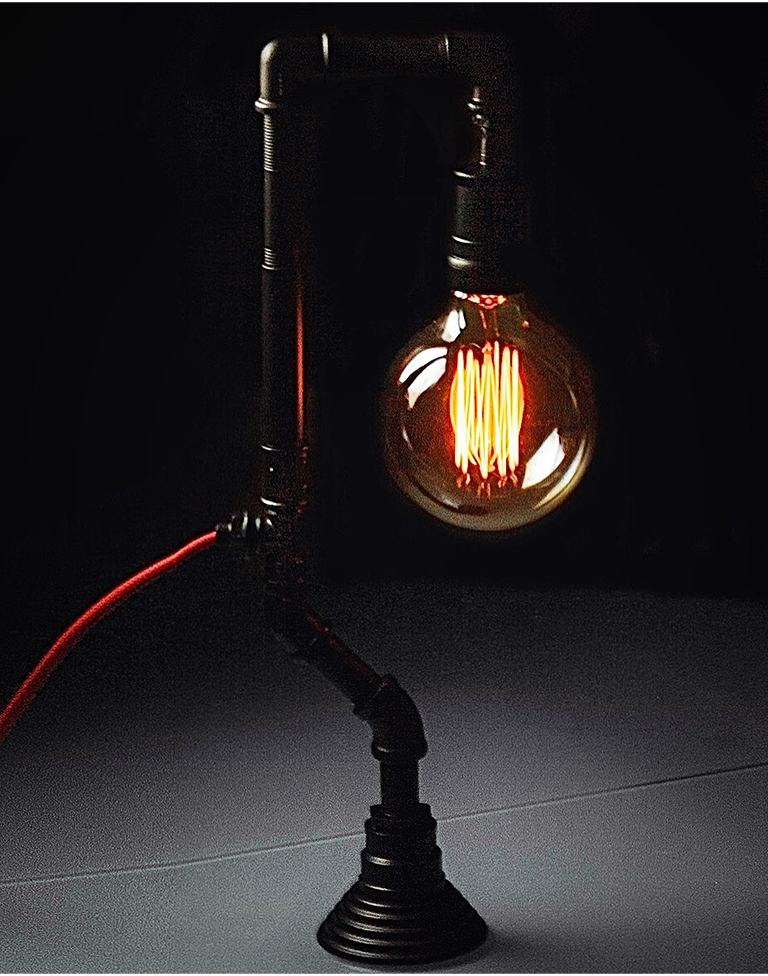
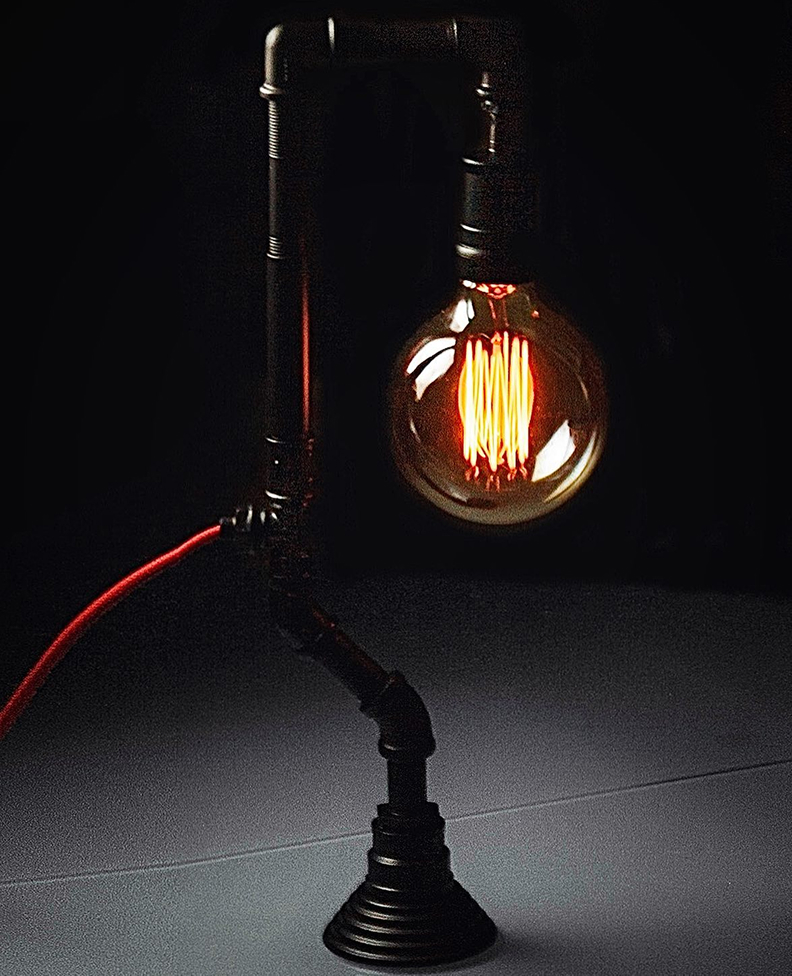
slider

diff --git a/src/components/NewProductsSlider/img/index.js b/src/components/NewProductsSlider/img/index.js
@@ -1,3 +1,4 @@
+// Desktop
 export { default as product1 } from './desk-1.jpg';
 export { default as product1_2x } from './desk-1-2x.jpg';
 
@@ -9,3 +10,22 @@ export { default as product3_2x } from './desk-3-2x.jpg';
 
 export { default as product4 } from './desk-4.jpg';
 export { default as product4_2x } from './desk-4-2x.jpg';
+
+// Tablet
+export { default as product1Tablet } from './tab-1.jpg';
+export { default as product1Tablet_2x } from './tab-1-2x.jpg';
+
+export { default as product2Tablet } from './tab-2.jpg';
+export { default as product2Tablet_2x } from './tab-2-2x.jpg';
+
+export { default as product3Tablet } from './tab-3.jpg';
+export { default as product3Tablet_2x } from './tab-3-2x.jpg';
+
+export { default as product4Tablet } from './tab-4.jpg';
+export { default as product4Tablet_2x } from './tab-4-2x.jpg';
+
+// Mobile
+export { default as product1Mobile } from './mob-1.jpg';
+export { default as product2Mobile } from './mob-2.jpg';
+export { default as product3Mobile } from './mob-3.jpg';
+export { default as product4Mobile } from './mob-4.jpg';

diff --git a/src/components/NewProductsSlider/NewProductsSlider.jsx b/src/components/NewProductsSlider/NewProductsSlider.jsx
@@ -1,9 +1,23 @@
-// import * as images from './img';
+import * as images from './img';
+import productsData from './data/products.json';
+import ProductSlide from './ProductSlide/ProductSlide';
+import Slider from '../../shared/components/Slider/Slider';
+// import css from './NewProductsSlider.module.css';
+
+const products = productsData.map((product) => ({
+  ...product,
+  image: images[product.image],
+  image2x: images[product.image2x],
+  imageTablet: images[product.imageTablet],
+  imageTablet2x: images[product.imageTablet2x],
+  imageMobile: images[product.imageMobile],
+}));
 
 export default function NewProductsSlider() {
   return (
     <>
       <h2 className="headingSection">NewProductsSlider</h2>
+      <Slider data={products} component={ProductSlide} />
     </>
   );
 }

diff --git a/src/shared/components/Slider/Slider.jsx b/src/shared/components/Slider/Slider.jsx
@@ -1,0 +1,28 @@
+import { Swiper, SwiperSlide } from 'swiper/react';
+import 'swiper/css';
+
+export default function Slider({ data, component: Component }) {
+  return (
+    <Swiper
+      grabCursor
+      slidesPerView={1.1}
+      spaceBetween={16}
+      breakpoints={{
+        744: {
+          slidesPerView: 2,
+          spaceBetween: 24,
+        },
+        1440: {
+          slidesPerView: 3,
+          spaceBetween: 24,
+        },
+      }}
+    >
+      {data.map((item) => (
+        <SwiperSlide key={item.id}>
+          <Component {...item} />
+        </SwiperSlide>
+      ))}
+    </Swiper>
+  );
+}

diff --git a/src/components/NewProductsSlider/ProductSlide/ProductSlide.jsx b/src/components/NewProductsSlider/ProductSlide/ProductSlide.jsx
@@ -1,0 +1,26 @@
+import css from './ProductSlide.module.css';
+
+export default function ProductSlide({
+  image,
+  image2x,
+  imageTablet,
+  imageTablet2x,
+  imageMobile,
+  alt,
+}) {
+  return (
+    <picture>
+      <source
+        media="(min-width: 1440px)"
+        srcSet={`${image} 1x, ${image2x} 2x`}
+      />
+
+      <source
+        media="(min-width: 744px)"
+        srcSet={`${imageTablet} 1x, ${imageTablet2x} 2x`}
+      />
+
+      <img className={css.image} src={imageMobile} alt={alt} />
+    </picture>
+  );
+}

diff --git a/src/components/NewProductsSlider/ProductSlide/ProductSlide.module.css b/src/components/NewProductsSlider/ProductSlide/ProductSlide.module.css
@@ -1,0 +1,12 @@
+/* .image {
+  display: block;
+  width: 100%;
+  height: auto;
+} */
+
+.image {
+  display: block;
+  width: 100%;
+  aspect-ratio: 3 / 4;
+  object-fit: cover;
+}
